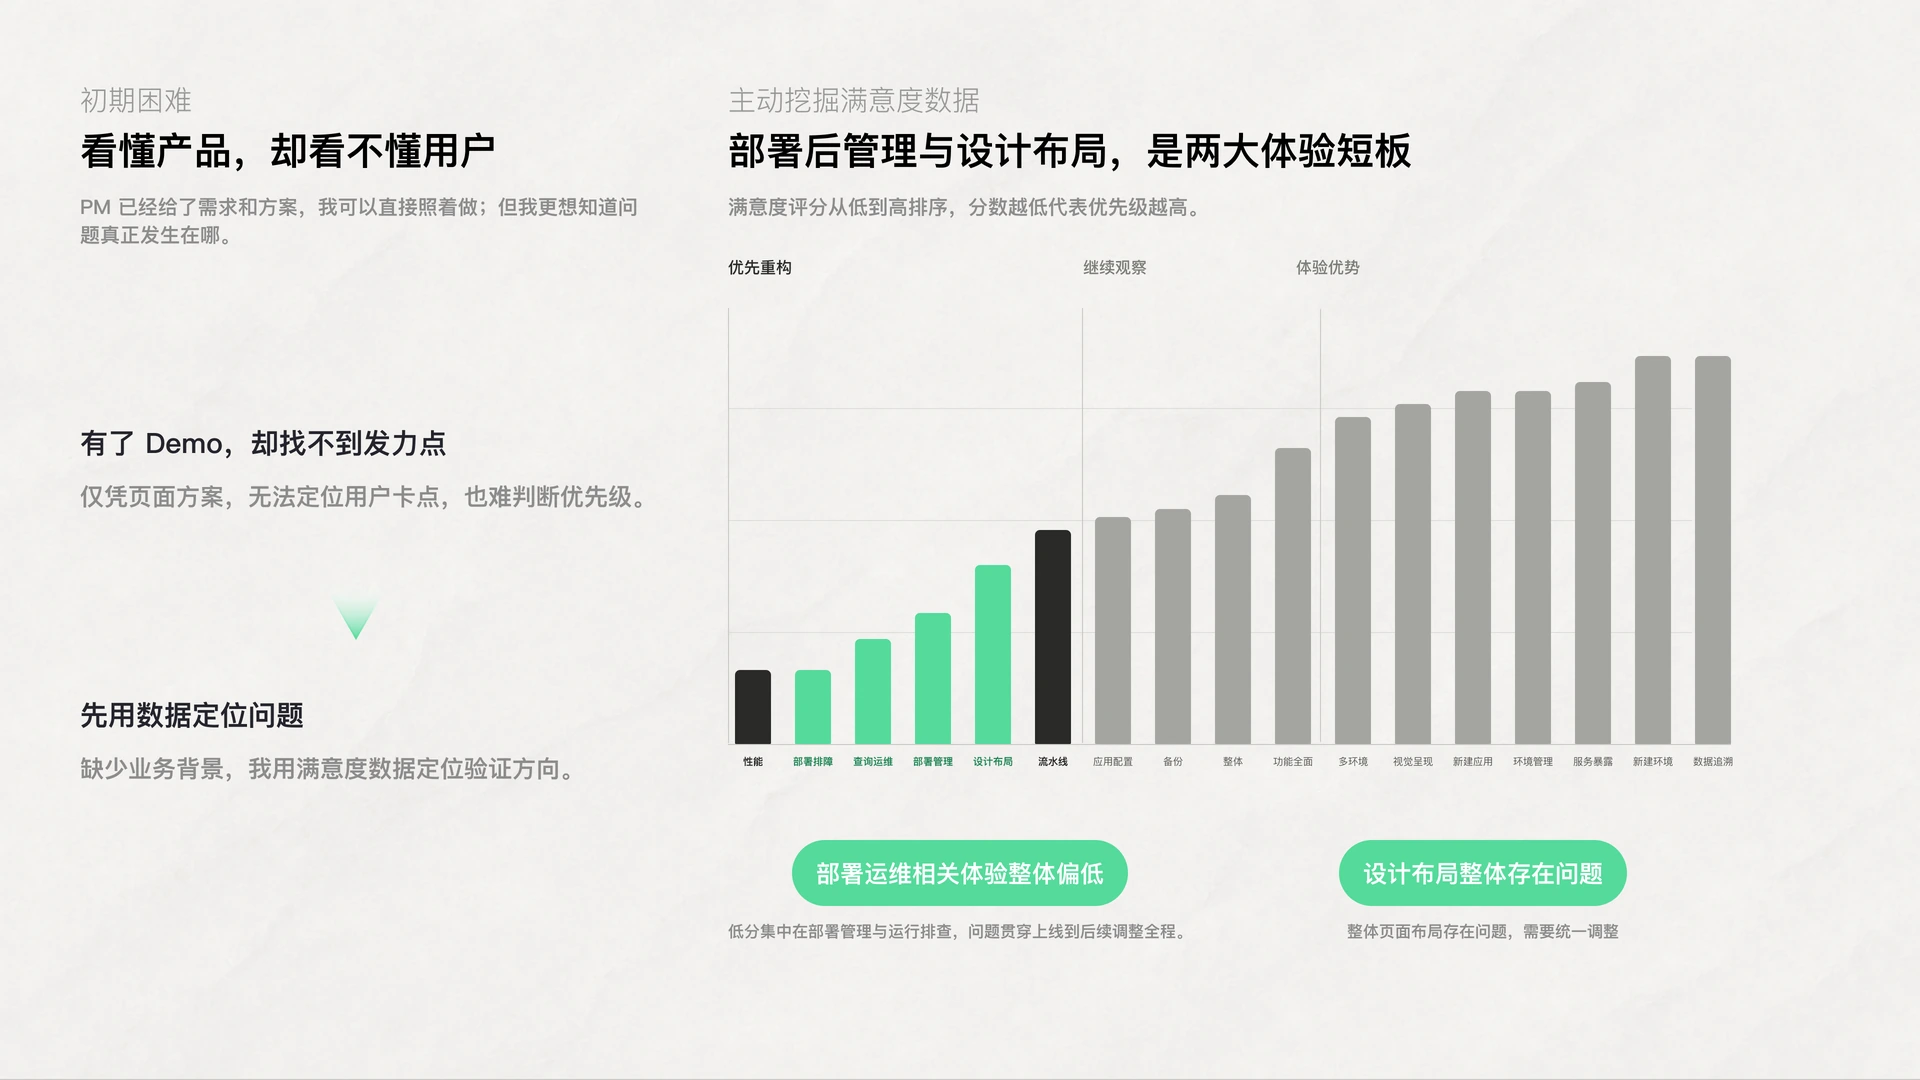
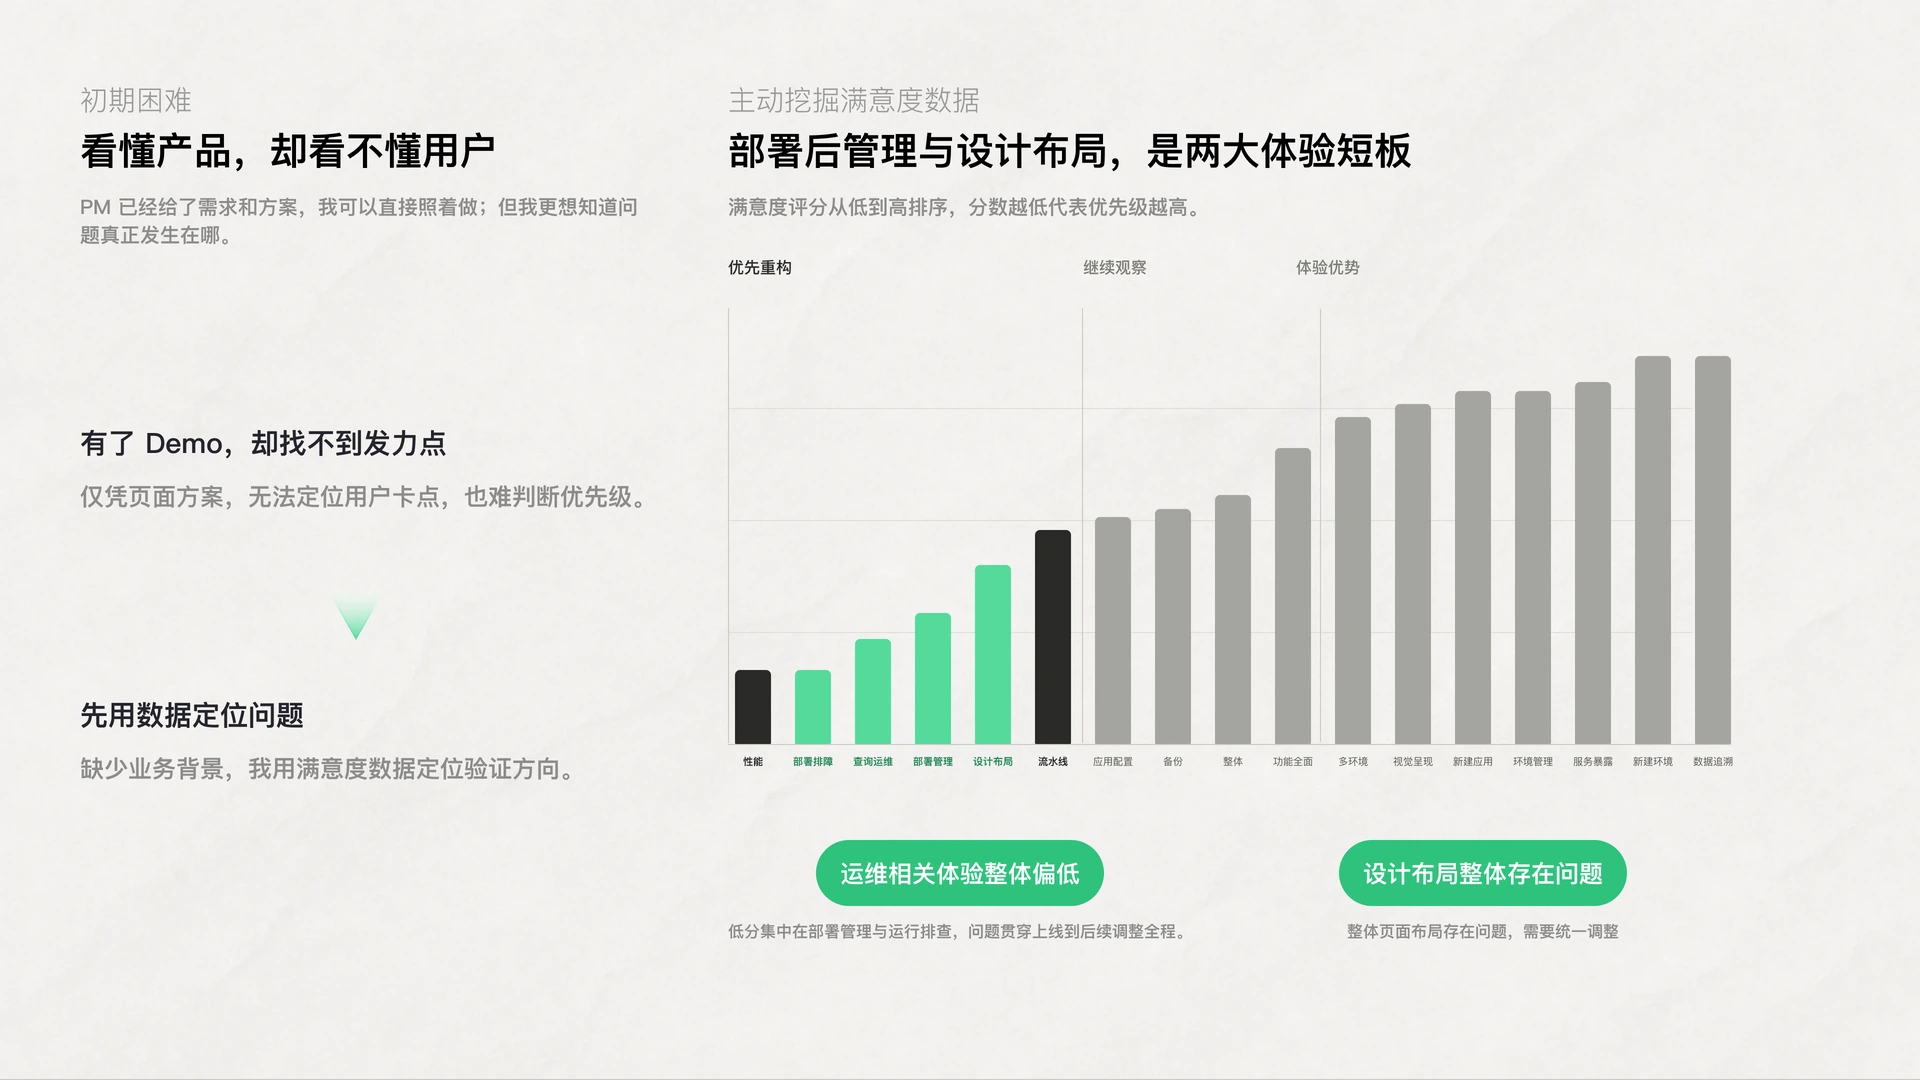
更新CNAP案例第3至5页

Changed region(s): [[0.4062, 0.7639, 0.5938, 0.8556], [0.6875, 0.7639, 0.8438, 0.8556]]

diff --git a/pages/cnap-case.html b/pages/cnap-case.html
@@ -23,9 +23,9 @@
       <section class="slides" aria-label="CNAP 云原生工作负载管理项目案例">
         <img src="../assets/cnap-case/page-01.webp?v=20260914-2" alt="CNAP 云原生工作负载管理项目概览" data-section-kicker="项目开篇" data-section-title="复杂 B 端系统体验重构" width="1920" height="1080" fetchpriority="high" decoding="async" />
         <img data-src="../assets/cnap-case/page-02-revised.webp?v=20260915-1" alt="CNAP 信息架构与核心任务流程" data-section-kicker="项目背景" data-section-title="系统复杂化带来的核心痛点" width="1920" height="1080" loading="lazy" decoding="async" />
-        <img data-src="../assets/cnap-case/page-03-update.webp?v=20260917-1" alt="CNAP 初期困难与体验短板：看懂产品，却看不懂用户" data-section-kicker="初期困难" data-section-title="看懂产品，却看不懂用户" width="1920" height="1080" loading="lazy" decoding="async" />
-        <img data-src="../assets/cnap-case/page-04.webp" alt="CNAP 设计重构目标与策略" data-section-kicker="设计策略" data-section-title="先解决高频任务，再沉淀页面规则" width="1920" height="1080" loading="lazy" decoding="async" />
-        <img data-src="../assets/cnap-case/page-05-update.webp?v=20260915-1" alt="CNAP 设计成果：信息各归其位，任务一眼可见" data-section-kicker="设计成果一" data-section-title="信息各归其位，任务一眼可见" width="1920" height="1080" loading="lazy" decoding="async" />
+        <img data-src="../assets/cnap-case/page-03-update.webp?v=20260917-2" alt="CNAP 初期困难与体验短板：看懂产品，却看不懂用户" data-section-kicker="初期困难" data-section-title="看懂产品，却看不懂用户" width="1920" height="1080" loading="lazy" decoding="async" />
+        <img data-src="../assets/cnap-case/page-04-update.webp?v=20260917-2" alt="CNAP 设计重构目标与策略" data-section-kicker="设计策略" data-section-title="先解决高频任务，再沉淀页面规则" width="1920" height="1080" loading="lazy" decoding="async" />
+        <img data-src="../assets/cnap-case/page-05-update.webp?v=20260917-1" alt="CNAP 设计成果：信息各归其位，任务一眼可见" data-section-kicker="设计成果一" data-section-title="信息各归其位，任务一眼可见" width="1920" height="1080" loading="lazy" decoding="async" />
         <img data-src="../assets/cnap-case/page-06.webp?v=20260915-2" alt="CNAP 核心流程与信息架构优化" data-section-kicker="信息架构" data-section-title="重组部署与排障路径" width="1920" height="1080" loading="lazy" decoding="async" />
         <img data-src="../assets/cnap-case/page-07.webp?v=20260914-1" alt="CNAP 设计点一：状态难查与配置难改" data-section-kicker="设计点一" data-section-title="状态难查，配置难改" width="1920" height="1080" loading="lazy" decoding="async" />
         <div class="case-slide-frame cnap-interactive-slide cnap-preview-slide" id="workload-preview">
